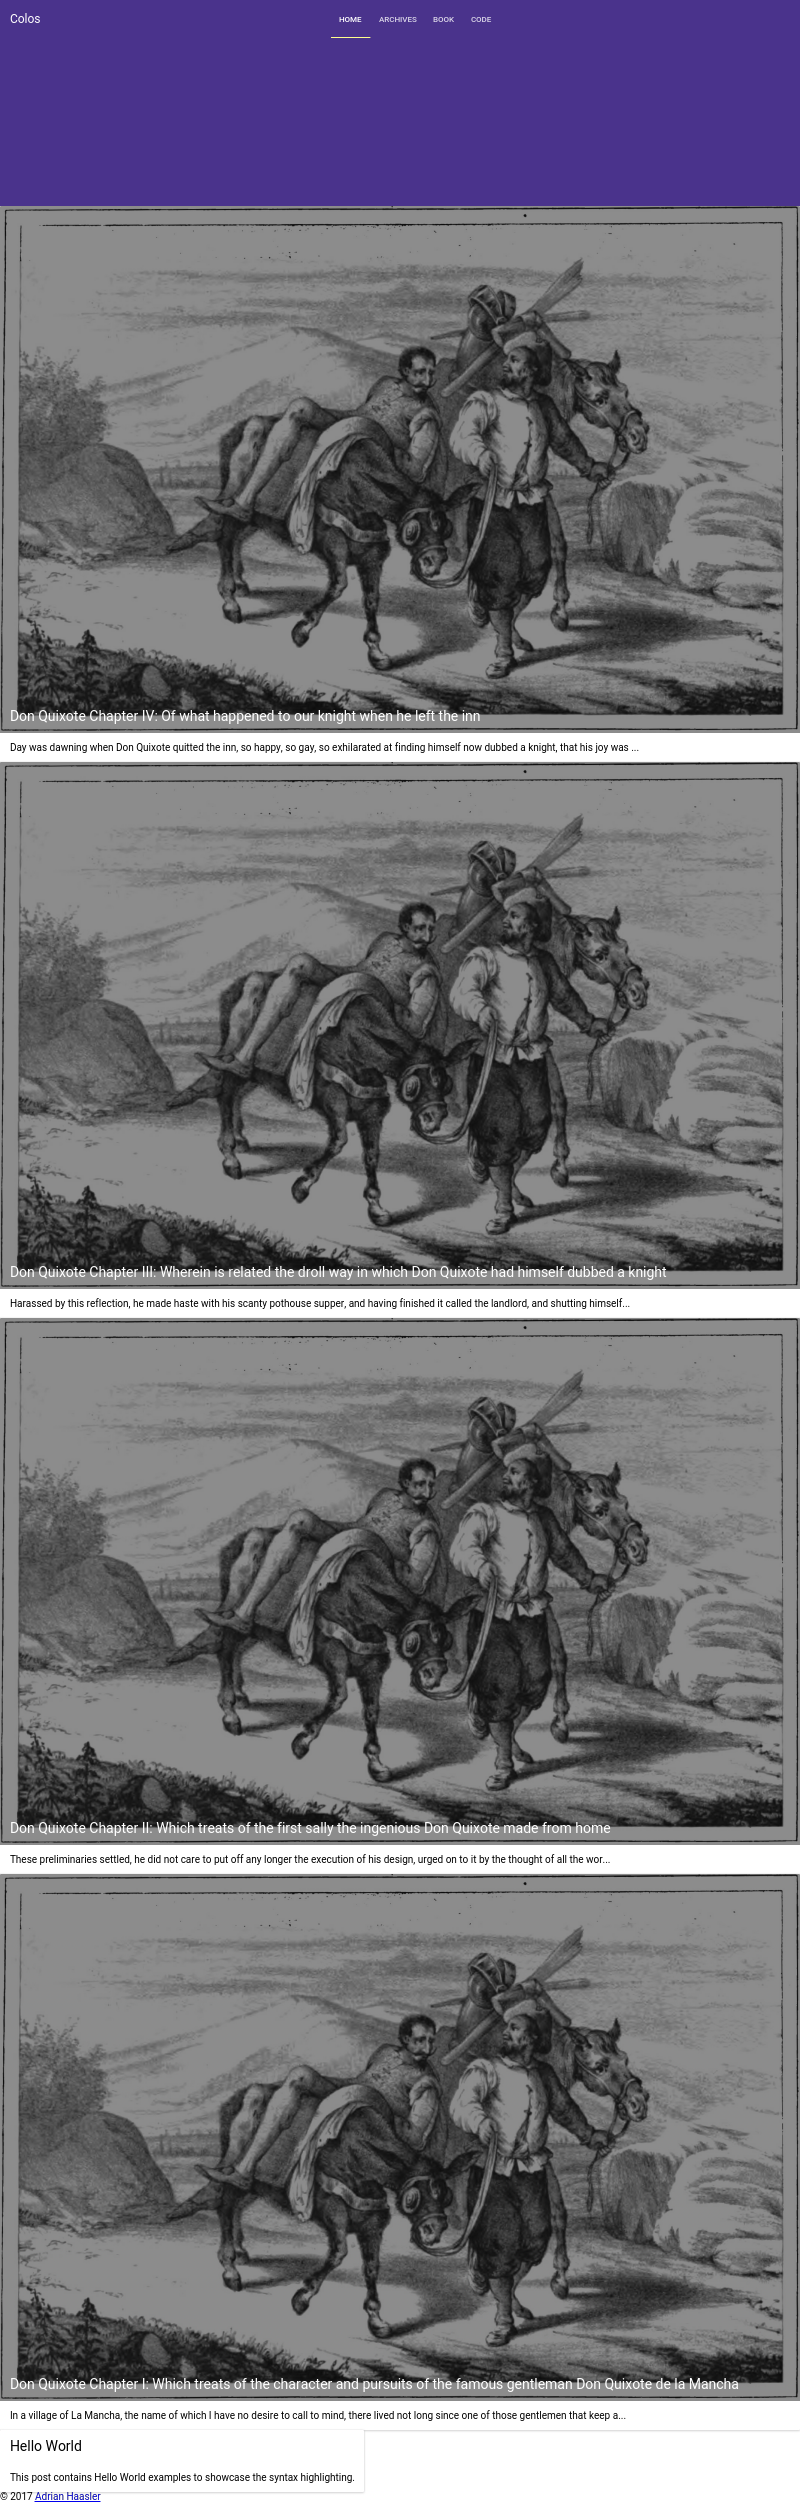
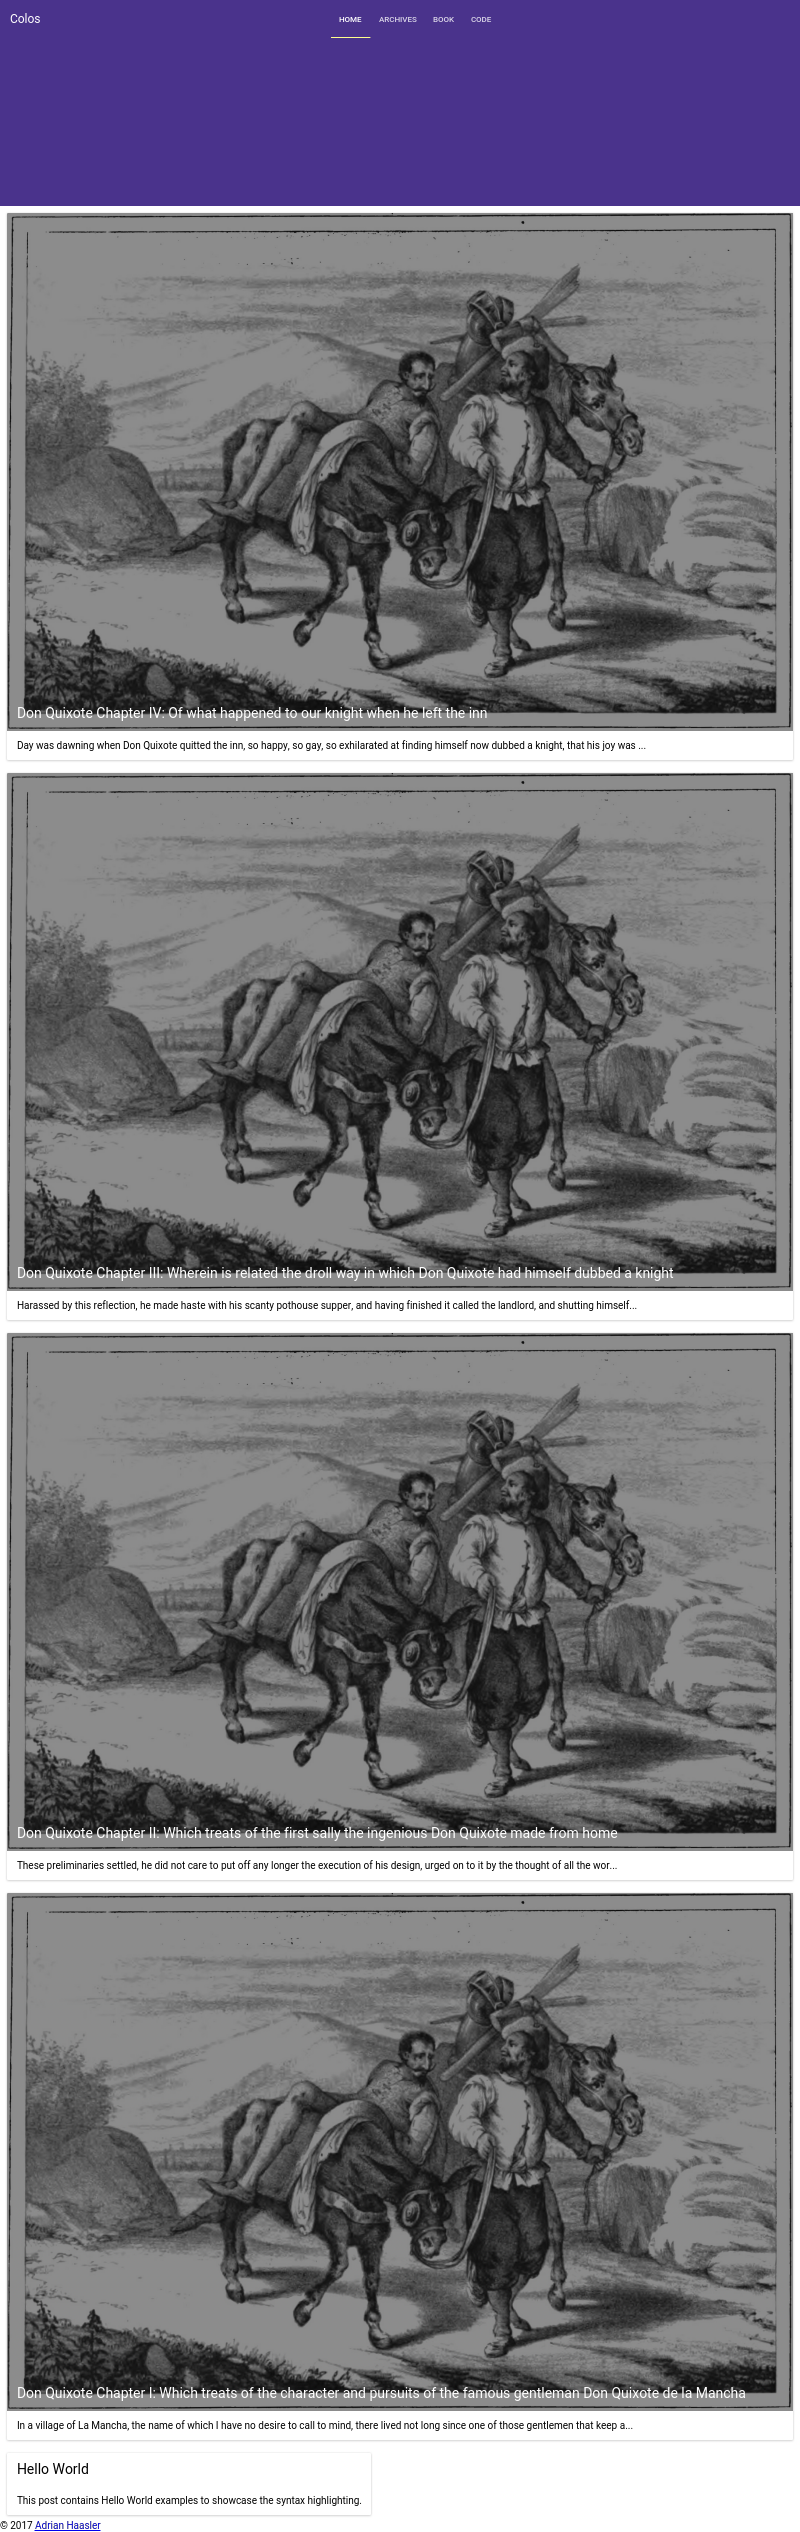
Separate paper cards
Built from cd16f1738a2708dd143d91586e7eb3a5fa8fa34c.

diff --git a/source/css/main.css b/source/css/main.css
@@ -3,4 +3,4 @@ http://meyerweb.com/eric/tools/css/reset/
 v2.0 | 20110126
 License: none (public domain)
 */a,abbr,acronym,address,applet,article,aside,audio,b,big,blockquote,body,canvas,caption,center,cite,code,dd,del,details,dfn,div,dl,dt,em,embed,fieldset,figcaption,figure,footer,form,h1,h2,h3,h4,h5,h6,header,hgroup,html,i,iframe,img,ins,kbd,label,legend,li,mark,menu,nav,object,ol,output,p,pre,q,ruby,s,samp,section,small,span,strike,strong,sub,summary,sup,table,tbody,td,tfoot,th,thead,time,tr,tt,u,ul,var,video{margin:0;padding:0;border:0;font-size:100%;font:inherit;vertical-align:baseline}
-/* HTML5 display-role reset for older browsers */article,aside,details,figcaption,figure,footer,header,hgroup,menu,nav,section{display:block}body{line-height:1}ol,ul{list-style:none}blockquote,q{quotes:none}blockquote:after,blockquote:before,q:after,q:before{content:"";content:none}table{border-collapse:collapse;border-spacing:0}h1,h2,h3,h4,h5,h6{color:rgba(0,0,0,.9)}body{font-family:Roboto,sans-serif}.post-content{color:#212121;line-height:1.6;font-size:1.25em;font-weight:300}.post-content p{margin-bottom:1em}h1{font-size:2.2em}h2{font-size:2em}h3{font-size:1.8em}h4{font-size:1.6em}h5{font-size:1.4em}h6{font-size:1.2em}.archives-wrap .archive-year{text-decoration:none;color:#212121}.archives-wrap .archive-year:active,.archives-wrap .archive-year:focus,.archives-wrap .archive-year:hover{color:#757575}paper-card .header .title-text.over-image{color:#fff!important}.highlight,pre{font-family:Roboto Mono,monospace;font-size:.83em;line-height:1.2em}.highlight .line,pre .line{height:1.2em}app-drawer-layout>#contentContainer:not(.narrow){margin-left:0!important}app-drawer-layout>#contentContainer:not(.narrow)+app-drawer{visibility:hidden!important}app-drawer-layout>.narrow paper-tabs{display:none!important}app-header{color:#fff;background-color:#7c4dff}app-header #backgroundFrontLayer{background-position:50%}app-header #backgroundFrontLayer:before{content:"";display:block;position:absolute;top:0;bottom:0;left:0;right:0;background:rgba(25,25,25,.5)}app-toolbar.middle{height:10em}app-toolbar.bottom{height:4em}app-toolbar a{color:#fff;text-decoration:none}app-toolbar [main-title]{position:absolute;margin-left:2em;font-size:1.6em;font-weight:300}app-toolbar [condensed-title]{max-width:0}app-toolbar paper-tabs{height:100%!important}app-toolbar paper-tabs paper-tab{text-transform:uppercase}app-toolbar paper-tabs paper-tab[link] a{padding:0 1em}.page-content .wrapper .narrow-element,.page-content .wrapper h1,.page-content .wrapper h2,.page-content .wrapper h3,.page-content .wrapper h4,.page-content .wrapper h5,.page-content .wrapper h6,.page-content .wrapper header,.page-content .wrapper p,.page-content .wrapper table{max-width:960px;width:100%;margin:0 auto}.highlight{padding:.4em 0}.highlight .gutter{width:1.3em;text-align:right}.highlight .code{padding-left:1.4em}.archives-wrap:nth-child(3n+0){background-color:#ede7f6}.archives-wrap:nth-child(3n+2){background-color:#d1c4e9}.archives-wrap h1{text-align:center}paper-card iron-image:before{content:"";display:block;position:absolute;top:0;bottom:0;left:0;right:0;background:rgba(25,25,25,.5)}.highlight{background:#fafafa;border:solid #e0e0e0;border-width:1px 0}.highlight,pre{color:#212121}.highlight .string,pre .string{color:#f9a825}.highlight .comment,pre .comment{color:#727272}.highlight .keyword,pre .keyword{color:#ad1457}.highlight .built_in,pre .built_in{color:#00838f}.highlight .number,.literal,pre .number{color:#4527a0}.highlight.bash .meta,.highlight.bash .shebang,pre.bash .meta,pre.bash .shebang{color:#727272}.highlight.bash .variable,pre.bash .variable{color:#b6b6b6}.highlight.bash .title,pre.bash .title{color:#558b2f}.gutter pre{color:#757575}
+/* HTML5 display-role reset for older browsers */article,aside,details,figcaption,figure,footer,header,hgroup,menu,nav,section{display:block}body{line-height:1}ol,ul{list-style:none}blockquote,q{quotes:none}blockquote:after,blockquote:before,q:after,q:before{content:"";content:none}table{border-collapse:collapse;border-spacing:0}h1,h2,h3,h4,h5,h6{color:rgba(0,0,0,.9)}body{font-family:Roboto,sans-serif}.post-content{color:#212121;line-height:1.6;font-size:1.25em;font-weight:300}.post-content p{margin-bottom:1em}h1{font-size:2.2em}h2{font-size:2em}h3{font-size:1.8em}h4{font-size:1.6em}h5{font-size:1.4em}h6{font-size:1.2em}.archives-wrap .archive-year{text-decoration:none;color:#212121}.archives-wrap .archive-year:active,.archives-wrap .archive-year:focus,.archives-wrap .archive-year:hover{color:#757575}paper-card .header .title-text.over-image{color:#fff!important}.highlight,pre{font-family:Roboto Mono,monospace;font-size:.83em;line-height:1.2em}.highlight .line,pre .line{height:1.2em}app-drawer-layout>#contentContainer:not(.narrow){margin-left:0!important}app-drawer-layout>#contentContainer:not(.narrow)+app-drawer{visibility:hidden!important}app-drawer-layout>.narrow paper-tabs{display:none!important}app-header{color:#fff;background-color:#7c4dff}app-header #backgroundFrontLayer{background-position:50%}app-header #backgroundFrontLayer:before{content:"";display:block;position:absolute;top:0;bottom:0;left:0;right:0;background:rgba(25,25,25,.5)}app-toolbar.middle{height:10em}app-toolbar.bottom{height:4em}app-toolbar a{color:#fff;text-decoration:none}app-toolbar [main-title]{position:absolute;margin-left:2em;font-size:1.6em;font-weight:300}app-toolbar [condensed-title]{max-width:0}app-toolbar paper-tabs{height:100%!important}app-toolbar paper-tabs paper-tab{text-transform:uppercase}app-toolbar paper-tabs paper-tab[link] a{padding:0 1em}.page-content .wrapper .narrow-element,.page-content .wrapper h1,.page-content .wrapper h2,.page-content .wrapper h3,.page-content .wrapper h4,.page-content .wrapper h5,.page-content .wrapper h6,.page-content .wrapper header,.page-content .wrapper p,.page-content .wrapper table{max-width:960px;width:100%;margin:0 auto}.highlight{padding:.4em 0}.highlight .gutter{width:1.3em;text-align:right}.highlight .code{padding-left:1.4em}.archives-wrap:nth-child(3n+0){background-color:#ede7f6}.archives-wrap:nth-child(3n+2){background-color:#d1c4e9}.archives-wrap h1{text-align:center}paper-card{margin:.7em}paper-card iron-image:before{content:"";display:block;position:absolute;top:0;bottom:0;left:0;right:0;background:rgba(25,25,25,.5)}.highlight{background:#fafafa;border:solid #e0e0e0;border-width:1px 0}.highlight,pre{color:#212121}.highlight .string,pre .string{color:#f9a825}.highlight .comment,pre .comment{color:#727272}.highlight .keyword,pre .keyword{color:#ad1457}.highlight .built_in,pre .built_in{color:#00838f}.highlight .number,.literal,pre .number{color:#4527a0}.highlight.bash .meta,.highlight.bash .shebang,pre.bash .meta,pre.bash .shebang{color:#727272}.highlight.bash .variable,pre.bash .variable{color:#b6b6b6}.highlight.bash .title,pre.bash .title{color:#558b2f}.gutter pre{color:#757575}
